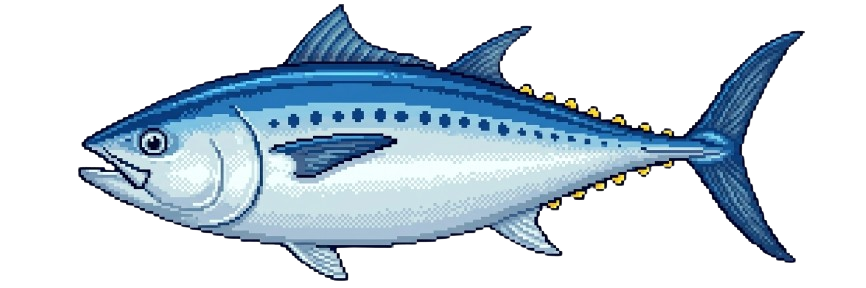
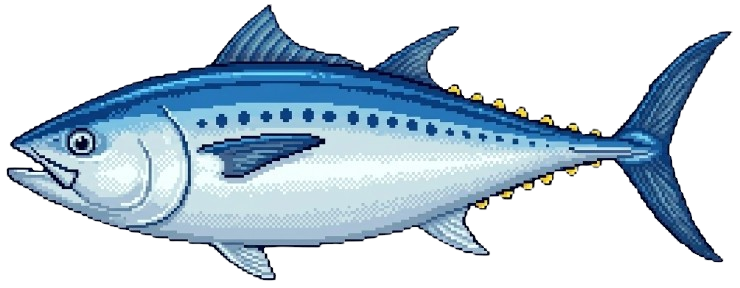
style: Estilizando o header e o menu hamburguer

Changed region(s): [[0.0, 0.0, 0.9946, 1.0]]

diff --git a/src/css/style.css b/src/css/style.css
@@ -2,7 +2,7 @@
 
 :root {
     --color-primary: #1b1d87;
-    --bg-dark: #0a1651;
+    --bg-dark: #0A1651;
     --btn-color: #ff8d28;
     --text-color: white;
     --header-bg: #1b1d87;
@@ -25,7 +25,7 @@ header {
     justify-content: space-between;
     align-items: center;
     padding: 10px 2%;
-    background: var(--header-bg);
+    background: var(--bg-dark);
 }
 
 .titulo {
@@ -48,12 +48,19 @@ header {
 .logo-content{
     display: flex;
     align-items: center;
-    justify-content: space-around;
+    justify-content: space-between;
+    background-color: var(--header-bg);
+    padding: 20px 5px;
+    border-bottom: 3px solid #ff8d28;
+    align-items: center;
 }
 
 .logo {
     height: 40px;
-    margin: 0;
+}
+
+.logo-principal {
+    height: 70px;
 }
 
 @keyframes acender {
@@ -81,7 +88,14 @@ nav ul li a{
 
 nav ul li a:hover {
     color: var(--btn-color);
-    text-transform: uppercase;
+    text-decoration: underline;
+    text-decoration-color: white;
+    text-decoration-thickness: 2px;
+    text-underline-offset: 5px;
+}
+
+#nav-menu {
+    margin: auto;
 }
 
 .menu-hamburguer {
@@ -103,11 +117,12 @@ nav ul li a:hover {
 @media (max-width:768px){
     .menu-hamburguer{
         display: flex;
+        z-index: 1;
     }
     nav{
         display: none;
         position: absolute;
-        top:80px;
+        top:114px;
         left:0;
         width:100%;
         background:var(--header-bg);

diff --git a/index.html b/index.html
@@ -8,17 +8,18 @@
 </head>
 <body>
     <div class="logo-content">
-        <img src="src/assets/foto-atum.jpg" alt="Atum" class="logo">
-        <img src="src/assets/logo_daveThediver.webp" alt="" class="logo">
         <img src="src/assets/decoracao.png" alt="" class="logo">
+        <img src="src/assets/logo_daveThediver.webp" alt="" class="logo-principal">
+        <img src="src/assets/decoracao.png" alt="Atum" class="logo">
     </div>
+
     <header>
         <div class="menu-hamburguer" id="menu-icone">
             <span></span>
             <span></span>
             <span></span>
         </div>
-        <h1 class="titulo">DeepDiver <span>Games</span></h1>
+
         <nav id="nav-menu">
             <ul>
                 <li><a href="#">Home</a></li>
@@ -30,7 +31,6 @@
 
     <section id="banner">
         <img id="imgBanner">
-
     </section>
 
     <main class="container">
